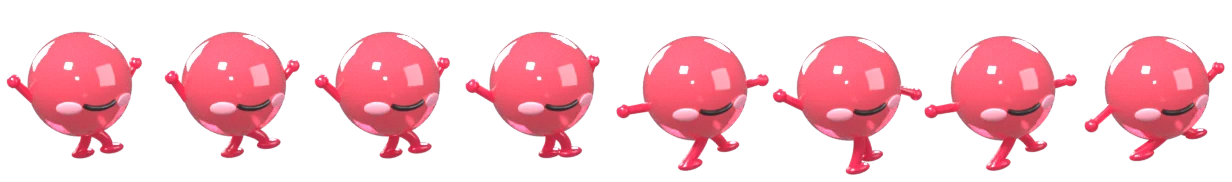
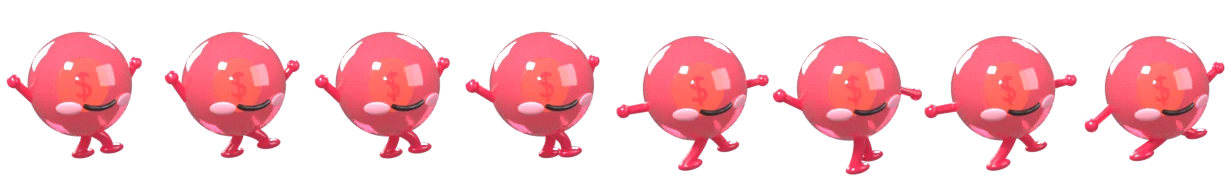
Glass family: glass runner with a gold $ coin heart, glass ticks and power-ups, money-plant dividend
- Runner (all 5 skins, run/love/tricks/skate/cash/dance) re-rendered as glass: amber honey glass with gold limbs for gold, tinted glass for long/short; a glowing gold $ coin floats inside (coin_heart), rocks with the stride, squashes in the goo
- Ticks: clear tinted glass candles with a glowing core
- Power-ups: glass STOP-LOSS shield, sapphire INDEX FUND magnet, new DIVIDEND money plant (glass pot, gold coin leaves) in pu-x2
- PUGLOW colours match the new materials; power-up sheets preload after start (no placeholder disc)
- GLASS_STYLE switch (default on) in objects.py; docs updated

Claude-Session: https://claude.ai/code/session_019fbWZCuFJHkf5tasQWWvE6

diff --git a/index.html b/index.html
@@ -1829,8 +1829,8 @@ let lastScoreTxt='';function paintScore(n,col){col=col||'#ebbd4e';const t=fmt(n)
 /* game sprites (assets/game): 3D renders in the site palette. Runner sheet = 8 run frames + 1 jump frame. */
 /* sprite sheets load on demand (P1): GIMG makes the image, ld() starts the download the first time it is needed; ok() is false until it has arrived, and the drawing code falls back to the gold runner */
 var DOLLA=new Image();DOLLA.onload=()=>{lastScoreTxt='';if(R)paintScore(R.score)};DOLLA.src='assets/game/dolla.webp';
-const GIMG=n=>{const i=new Image();i._n=n;return i},ld=i=>{if(i&&!i._ld&&!i.src){i._ld=1;i.onload=()=>bmMake(i);i.src='assets/game/'+i._n+'.webp'}return i},/* decode right after download, off the main thread */RUNNER=GIMG('runner'),RUNI={gold:RUNNER,lg:GIMG('runner-lgreen'),gg:GIMG('runner-ggreen'),lr:GIMG('runner-lred'),gr:GIMG('runner-gred')},SKATEI={gg:GIMG('runner-skate-ggreen'),gr:GIMG('runner-skate-gred')},HATI={top:GIMG('hat-top'),crown:GIMG('hat-crown'),prop:GIMG('hat-prop')},BULL=GIMG('cp-bull'),BEARCP=GIMG('cp-bear'),BILL=GIMG('bill'),CASH=GIMG('runner-cash'),PROP_X0={cash:26},LOVEI={gold:GIMG('runner-love'),lg:GIMG('runner-love-lgreen'),gg:GIMG('runner-love-ggreen'),lr:GIMG('runner-love-lred'),gr:GIMG('runner-love-gred')},HEART=GIMG('heart'),TRICK_OFF=[-88,-177],TRICKI={gold:GIMG('runner-trick'),lg:GIMG('runner-trick-lgreen'),gg:GIMG('runner-trick-ggreen'),lr:GIMG('runner-trick-lred'),gr:GIMG('runner-trick-gred')},LOVE_EYES=[[85.8,95.0,115.2,90.6],[85.8,95.0,115.2,90.6],[85.8,95.0,115.2,90.6],[85.8,95.0,115.2,90.6],[85.4,100.6,114.6,93.9],[85.4,100.6,114.6,93.9],[85.4,100.6,114.6,93.9],[85.4,100.6,114.6,93.9]]/* eye centres per love frame, sheet px (exported by objects.py) */,TICKI=TK.map(t=>GIMG(t.im)),RUGI=GIMG('rug'),RUGROLLI=GIMG('rug-roll'),WALLETI=GIMG('devwallet'),SIGNI=GIMG('sign-100x'),PUI={shield:GIMG('pu-shield'),magnet:GIMG('pu-magnet'),x2:GIMG('pu-x2')},PUGLOW={shield:'198,202,209',magnet:'188,127,58',x2:'235,189,78'};
-const ldSkin=sk=>{ld(RUNI[sk]);ld(LOVEI[sk]);ld(TRICKI[sk])},ldStart=()=>{/* what the game opens with: the gold and light-green runner (the start skin), its trick and love sheets, the bull, ticks, hats */[RUNNER,BULL,BILL,HEART,HATI.top,HATI.crown,HATI.prop,...TICKI.slice(0,5)].forEach(ld);ldSkin('lg')};
+const GIMG=n=>{const i=new Image();i._n=n;return i},ld=i=>{if(i&&!i._ld&&!i.src){i._ld=1;i.onload=()=>bmMake(i);i.src='assets/game/'+i._n+'.webp'}return i},/* decode right after download, off the main thread */RUNNER=GIMG('runner'),RUNI={gold:RUNNER,lg:GIMG('runner-lgreen'),gg:GIMG('runner-ggreen'),lr:GIMG('runner-lred'),gr:GIMG('runner-gred')},SKATEI={gg:GIMG('runner-skate-ggreen'),gr:GIMG('runner-skate-gred')},HATI={top:GIMG('hat-top'),crown:GIMG('hat-crown'),prop:GIMG('hat-prop')},BULL=GIMG('cp-bull'),BEARCP=GIMG('cp-bear'),BILL=GIMG('bill'),CASH=GIMG('runner-cash'),PROP_X0={cash:26},LOVEI={gold:GIMG('runner-love'),lg:GIMG('runner-love-lgreen'),gg:GIMG('runner-love-ggreen'),lr:GIMG('runner-love-lred'),gr:GIMG('runner-love-gred')},HEART=GIMG('heart'),TRICK_OFF=[-88,-177],TRICKI={gold:GIMG('runner-trick'),lg:GIMG('runner-trick-lgreen'),gg:GIMG('runner-trick-ggreen'),lr:GIMG('runner-trick-lred'),gr:GIMG('runner-trick-gred')},LOVE_EYES=[[85.8,95.0,115.2,90.6],[85.8,95.0,115.2,90.6],[85.8,95.0,115.2,90.6],[85.8,95.0,115.2,90.6],[85.4,100.6,114.6,93.9],[85.4,100.6,114.6,93.9],[85.4,100.6,114.6,93.9],[85.4,100.6,114.6,93.9]]/* eye centres per love frame, sheet px (exported by objects.py) */,TICKI=TK.map(t=>GIMG(t.im)),RUGI=GIMG('rug'),RUGROLLI=GIMG('rug-roll'),WALLETI=GIMG('devwallet'),SIGNI=GIMG('sign-100x'),PUI={shield:GIMG('pu-shield'),magnet:GIMG('pu-magnet'),x2:GIMG('pu-x2')},PUGLOW={shield:'170,205,255',magnet:'70,150,255',x2:'120,215,110'};
+const ldSkin=sk=>{ld(RUNI[sk]);ld(LOVEI[sk]);ld(TRICKI[sk])},ldStart=()=>{/* what the game opens with: the gold and light-green runner (the start skin), its trick and love sheets, the bull, ticks, hats */[RUNNER,BULL,BILL,HEART,HATI.top,HATI.crown,HATI.prop,...TICKI.slice(0,5)].forEach(ld);ldSkin('lg');setTimeout(()=>Object.values(PUI).forEach(ld),1500)};/* power-up sheets just after start, so the first one never shows the placeholder disc */
 const GLOWC={};function glowSprite(rgb){let c=GLOWC[rgb];if(!c){c=document.createElement('canvas');c.width=c.height=128;const q=c.getContext('2d'),gr=q.createRadialGradient(64,64,0,64,64,64);gr.addColorStop(0,'rgba('+rgb+',1)');gr.addColorStop(1,'rgba('+rgb+',0)');q.fillStyle=gr;q.fillRect(0,0,128,128);GLOWC[rgb]=c}return c}
 function glow(x,y,r,rgb,a){if(!(r>0)||!(a>0))return;const g=cx,o=g.globalCompositeOperation,ga=g.globalAlpha;const lt=PALC&&!PALC.dk;g.globalCompositeOperation=lt?'source-over':'lighter';g.globalAlpha=Math.min(1,lt?a*.55:a);g.drawImage(glowSprite(rgb),x-r,y-r,2*r,2*r);g.globalAlpha=ga;g.globalCompositeOperation=o}/* cached tinted falloff, no per-call gradient */
 const powered=s=>s.shield||s.magT>0||s.x2T>0;

diff --git a/scripts/icons/objects.py b/scripts/icons/objects.py
@@ -306,6 +306,13 @@ def rainbow_glass(name):
     b.inputs['Roughness'].default_value = 0.08; b.inputs['Coat Weight'].default_value = 1.0; b.inputs['Coat Roughness'].default_value = 0.02
     return m
 
+GLASS = os.environ.get('GLASS_STYLE', '1') == '1'   # glass family: see-through bodies with a glowing core
+
+def glass_on():
+    bpy.context.scene.render.film_transparent = True
+    try: bpy.context.scene.cycles.film_transparent_glass = True
+    except Exception: pass
+
 POS_SK = {'lgreen': ((0.22, 0.82, 0.36), (0.1, 0.48, 0.2), False), 'ggreen': ((0.05, 0.95, 0.3), (0.02, 0.6, 0.18), True),
           'lred': ((1.0, 0.3, 0.32), (0.62, 0.14, 0.16), False), 'gred': ((1.0, 0.06, 0.12), (0.7, 0.02, 0.08), True)}
 
@@ -321,11 +328,28 @@ def runner_mats():
             body = glass_grad('pglass', tuple(x * 0.55 for x in c), c, trans=0.7, emit=0.5, axis='Z', k=0.75)
             limb = principled('plimb', cl, 0.15, emit=cl, emit_str=0.45, coat=1.0, coat_rough=0.02)
             limb.node_tree.nodes['Principled BSDF'].inputs['Transmission Weight'].default_value = 0.4
+        elif GLASS:
+            glass_on(); body = glass_grad('lglass', tuple(0.7 * x for x in c), c, trans=0.3, emit=0.35, axis='Z', k=0.75)
+            limb = principled('pleg', cl, 0.15, coat=1.0, coat_rough=0.02)
         else:
             body = principled('pbody', c, 0.22, coat=1.0, coat_rough=0.05); limb = principled('pleg', cl, 0.3, coat=0.6)
+    elif GLASS:  # honey glass: amber body, polished gold limbs
+        glass_on(); body = glass_grad('amber', (0.62, 0.3, 0.03), (1.0, 0.72, 0.22), trans=0.72, emit=0.32, axis='Z', k=0.75)
+        limb = gold()
     else:
         body = plastic('rbody', P['gold']); limb = plastic('rleg', P['bronze'])
     return body, limb
+
+def coin_heart(x, z, rock=0.0, sz=1.0):
+    """the runner's signature: a glowing gold $ coin floating inside the glass body. rock = small turn (rad) so it never goes edge-on; sz squashes it vertically (goo)"""
+    if not GLASS: return []
+    m = principled('heart', (1.0, 0.72, 0.18), 0.2, metallic=0.6, coat=1.0, coat_rough=0.03, emit=(1.0, 0.62, 0.12), emit_str=1.6)
+    hub = link(bpy.data.objects.new('coinhub', None)); hub.location = (x, -0.05, z)
+    c = cyl(m, (0, 0, 0), 0.3, 0.08, (math.radians(90), 0, 0), 48, 0.02)
+    bpy.ops.object.text_add(location=(0, -0.045, -0.01), rotation=(math.radians(90), 0, 0)); d = bpy.context.active_object
+    d.data.body = '$'; d.data.size = 0.42; d.data.extrude = 0.012; d.data.align_x = 'CENTER'; d.data.align_y = 'CENTER'; d.data.materials.append(gold())
+    for o in (c, d): o.parent = hub
+    hub.rotation_euler = (0, 0, rock); hub.scale = (1, 1, sz); return [hub]
 
 def briefcase(hand, swing=0.0):
     """a small leather briefcase hanging from `hand` (handle up), swinging by `swing` rad about the hand"""
@@ -349,7 +373,7 @@ def o_runner(gait, frame):
     else:
         bob, lean, legs, L, bend, arms = _air(gait, frame)
     b = uv_sphere('rb', 0.8, (0, 0, 0.25 + bob), seg=64, rings=32); b.data.materials.append(body)
-    parts = [b]
+    parts = [b] + coin_heart(0, 0.25 + bob, 0.35 * math.sin(2 * math.pi * frame / 8))
     for k, side in enumerate((-1, 1)):
         a = math.radians(legs[k]); hip = Vector((0.05 * side, side * 0.22, -0.4 + bob))
         knee = hip + Vector((math.sin(a) * L * 0.5 + bend, 0, -math.cos(a) * L * 0.5))
@@ -451,7 +475,7 @@ def o_trick(kind, i, n=TRICK_N):
             x, y, z = v.co; r = math.hypot(x, y) / 0.8; th = math.atan2(y, x)
             v.co = Vector((x * wide, y * wide, z * tall + rip * r * r * math.sin(5 * th + ph) + 0.03 * flat * (z < 0) * r))
         b.location = (0, 0, ctr)
-    parts = [b]
+    parts = [b] + coin_heart(0, b.location.z, 0, tall if kind == 'goo' else 1.0)
     for hip, kn, ft, fs in legs:
         parts.append(tube('leg', [tuple(hip), tuple(kn), tuple(ft)], [0.09, 0.085, 0.08], limb))
         d = (ft - kn).normalized(); w_ = min(1.0, (fs - Vector((1.5, 0.9, 0.6))).length / 0.5); f = uv_sphere('foot', 0.13, tuple(ft + Vector((0.07, 0, -0.02)).lerp(d * 0.07, w_)), tuple(fs), 32, 16); f.data.materials.append(limb); parts.append(f)  # at rest: the same foot as o_runner
@@ -474,13 +498,13 @@ def o_trick(kind, i, n=TRICK_N):
 def o_dance(frame, n=12):
     """game-over dance, a seamless loop: facing the camera, feet planted, the body sways side to side and dips
     into a crouch at each side while the arms pump up and down in turn"""
-    P = smiley.PAL; body = plastic('rbody', P['gold']); limb = plastic('rleg', P['bronze'])
+    body, limb = runner_mats()
     ph = 2 * math.pi * frame / n; sw = math.sin(ph)
     bob = -0.05 + 0.05 * math.cos(2 * ph)          # 0 in the middle, lowest (crouched) at each side
     up = link(bpy.data.objects.new('upper', None)); up.location = (0.17 * sw, 0, bob)
     b = uv_sphere('rb', 0.8, (0.17 * sw, 0, 0.25 + bob), seg=64, rings=32); b.data.materials.append(body)
     fc = face([b], 0.17 * sw, 0.3 + bob, 0.95)
-    parts = [b]
+    parts = [b] + coin_heart(0.17 * sw, 0.25 + bob, 0.3 * sw)
     for side in (-1, 1):  # arms: one rises while the other falls
         bA = math.radians(35 + 120 * (0.5 + 0.5 * sw * side)); sh = Vector((side * 0.74 + 0.17 * sw, 0.05, 0.12 + bob))
         hand = sh + Vector((side * math.sin(bA) * 0.42, -0.06, -math.cos(bA) * 0.42))
@@ -583,12 +607,14 @@ def o_pu_shield():
         o = link(bpy.data.objects.new('sh', me)); o.location = (0, y, 0); o.data.materials.append(mat)
         so = o.modifiers.new('so', 'SOLIDIFY'); so.thickness = th; so.offset = 0; return bevel(o, 0.05, 4)
     rim = slab(1.0, 0.28, gold(), 0)
-    face_ = slab(0.84, 0.3, principled('plat', (0.86, 0.87, 0.9), 0.25, metallic=0.9, coat=0.6), -0.04)
+    if GLASS: glass_on()
+    face_ = slab(0.84, 0.3, glass_grad('shg', (0.55, 0.75, 1.0), (0.92, 0.97, 1.0), trans=0.85, emit=0.2) if GLASS else principled('plat', (0.86, 0.87, 0.9), 0.25, metallic=0.9, coat=0.6), -0.04)
     return [rim, face_], face([face_], 0, 0.05, 0.85)
 
 def o_pu_magnet():
     """power-up: a chunky horseshoe magnet, bronze with platinum poles, with a face on the bend"""
-    mb = principled('mag', smiley.PAL['bronze'], 0.3, coat=0.9, coat_rough=0.04); tip = principled('pole', (0.86, 0.87, 0.9), 0.22, metallic=1.0)
+    if GLASS: glass_on()
+    mb = glass_grad('mag', (0.05, 0.25, 0.85), (0.35, 0.7, 1.0), trans=0.75, emit=0.3, axis='Z', k=0.9) if GLASS else principled('mag', smiley.PAL['bronze'], 0.3, coat=0.9, coat_rough=0.04); tip = principled('pole', (0.86, 0.87, 0.9), 0.22, metallic=1.0)
     arc = [(0.48 * math.cos(math.radians(a)), 0, 0.15 + 0.48 * math.sin(math.radians(a))) for a in range(0, 181, 10)]
     pts = [(0.48, 0, -0.45)] + arc + [(-0.48, 0, -0.45)]
     body = tube('magnet', pts, [0.22] * len(pts), mb)
@@ -601,6 +627,20 @@ def o_pu_x2():
     t.data.body = '2x'; t.data.size = 1.35; t.data.extrude = 0.16; t.data.bevel_depth = 0.05; t.data.bevel_resolution = 4
     t.data.align_x = 'CENTER'; t.data.align_y = 'CENTER'; t.data.materials.append(gold())
     return [t], []
+
+def o_dividend():
+    """DIVIDEND power-up: a little money plant (your money grows) — a glass pot, a green glass stem, gold coin leaves, a face on the pot"""
+    glass_on()
+    pot_m = glass_grad('pot', (0.55, 0.75, 1.0), (0.92, 0.97, 1.0), trans=0.85, emit=0.2)
+    stem_m = principled('stem', (0.1, 0.75, 0.3), 0.15, coat=1.0, emit=(0.1, 0.8, 0.3), emit_str=0.4)
+    bpy.ops.mesh.primitive_cone_add(vertices=48, radius1=0.42, radius2=0.58, depth=0.7, location=(0, 0, -0.55)); pot = bpy.context.active_object
+    pot.data.materials.append(pot_m); pot = bevel(pot, 0.04, 3); smooth(pot)
+    soil = cyl(gold(), (0, 0, -0.22), 0.52, 0.06, bv=0.02)
+    stem = tube('stem', [(0, 0, -0.2), (0.05, 0, 0.25), (-0.04, 0, 0.6), (0, 0, 0.85)], [0.06, 0.055, 0.05, 0.045], stem_m)
+    parts = [pot, soil, stem]
+    for (x, z, ry) in ((0.36, 0.38, 35), (-0.36, 0.62, -35), (0.0, 1.05, 0)):  # coin leaves, tilted toward the camera
+        parts.append(cyl(gold(), (x, -0.05, z), 0.24, 0.06, (math.radians(80), math.radians(ry), 0), 48, 0.02))
+    return parts, face([pot], 0, -0.55, 0.5)
 
 def o_bull(i, n=96):
     """checkpoint: a faceted, see-through diamond bull, turning slowly (frame i of n, one full turn)"""
@@ -649,12 +689,19 @@ def o_bill():
 def o_tick(tier=1, red=False):
     """currency: a glossy candle. green = +1/+3/+10% (tier 1-3, bigger and brighter), red = -2/-5% (tier 1-2, a down-candle)"""
     c = (0.9, 0.08, 0.12) if red else (0.05, 0.8, 0.3)
-    m = principled('tick', c, 0.12, coat=1.0, coat_rough=0.02, emit=c, emit_str=0.25 + 0.2 * tier)
-    m.node_tree.nodes['Principled BSDF'].inputs['Transmission Weight'].default_value = 0.35
     k = [0, 0.8, 1.0, 1.2][tier]
-    body = box('body', m, (0, 0, 0), (0.62 * k, 0.62 * k, 1.15 * k), bv=0.12 * k)
-    wick = tube('wick', [(0, 0, -1.0 * k), (0, 0, 1.0 * k)], [0.06 * k, 0.06 * k], m)
-    parts = [body, wick]
+    if GLASS:  # clear tinted glass shell, a bright core bar inside
+        glass_on(); m = glass_grad('tick', tuple(0.45 * x for x in c), tuple(min(1, 0.35 + x) for x in c), trans=0.8, emit=0.25, axis='Z', k=0.6)
+        core = principled('core', c, 0.2, emit=c, emit_str=1.2 + 0.5 * tier)
+        body = box('body', m, (0, 0, 0), (0.62 * k, 0.62 * k, 1.15 * k), bv=0.14 * k)
+        wick = tube('wick', [(0, 0, -1.0 * k), (0, 0, 1.0 * k)], [0.05 * k, 0.05 * k], core)
+        parts = [body, wick, box('corebar', core, (0, 0, 0), (0.26 * k, 0.26 * k, 0.8 * k), bv=0.08 * k)]
+    else:
+        m = principled('tick', c, 0.12, coat=1.0, coat_rough=0.02, emit=c, emit_str=0.25 + 0.2 * tier)
+        m.node_tree.nodes['Principled BSDF'].inputs['Transmission Weight'].default_value = 0.35
+        body = box('body', m, (0, 0, 0), (0.62 * k, 0.62 * k, 1.15 * k), bv=0.12 * k)
+        wick = tube('wick', [(0, 0, -1.0 * k), (0, 0, 1.0 * k)], [0.06 * k, 0.06 * k], m)
+        parts = [body, wick]
     if tier == 3 and not red:  # the big one: a gold band and a sparkle
         parts.append(box('band', gold(), (0, 0, 0.3 * k), (0.66 * k, 0.66 * k, 0.12 * k), bv=0.03))
         star = prim('ico_sphere', principled('spark', (1, 1, 0.9), 0.1, emit=(1, 0.95, 0.7), emit_str=3.0), (0.32 * k, -0.3, 1.0 * k), subdivisions=1, radius=0.12)
@@ -787,7 +834,7 @@ def o_skate(kind, i):
         lift = 0.3 * env; crouch = 0.5 - 0.5 * hold; legs_together = hold; grab = (1, hold)
     bob = 0.55 - 0.16 * crouch + lift
     # body (ball, face, arms) in its own hub, pitched a third as much as the board so it stays balanced over it
-    b = uv_sphere('rb', 0.8, (0, 0, bob), seg=64, rings=32); b.data.materials.append(body); bparts = [b]
+    b = uv_sphere('rb', 0.8, (0, 0, bob), seg=64, rings=32); b.data.materials.append(body); bparts = [b] + coin_heart(0, bob, 0.2)
     for k_, side in enumerate((-1, 1)):
         sh = Vector((side * 0.74, 0.05, bob - 0.13)); tgt = sh + arms[k_] * 0.5
         if kind == 'jesus': tgt = sh.lerp(Vector((side * 1.55, -0.05, bob - 0.08)), hold) if True else tgt   # arms straight out, cross
@@ -858,7 +905,7 @@ def o_hat(kind):
             ps.append(box('blade', [f2, stem][k], (0, 0, 0.6), (0.9, 0.16, 0.025), (math.radians(10), 0, math.radians(30 + 90 * k)), bv=0.01))
     return ps + [a], []
 
-OBJECTS = {'coin': (o_coin, -1), **{'trick-%s-%d' % (k, i): ((lambda k=k, i=i: o_trick(k, i)), 0) for k in ('cork', 'spin', 'split', 'goo') for i in range(TRICK_N)}, 'heart': (o_heart, 1), **{'bull-%d' % i: ((lambda i=i: o_bull(i)), 0) for i in range(96)}, **{'bearcp-%d' % i: ((lambda i=i: o_bear(i)), 0) for i in range(96)}, 'dolla': (o_dolla, 0), **{'skate-ride_%d-%d' % (p_, i): ((lambda p_=p_, i=i: o_skate('ride_%d' % p_, i)), 0) for p_ in SKATE_PITCH for i in range(SKATE_RIDE_N)}, **{'skate-%s-%d' % (k, i): ((lambda k=k, i=i: o_skate(k, i)), 0) for k, n_ in SKATE_SEQ.items() for i in range(n_)}, 'hat-top': (lambda: o_hat('top'), 0), 'hat-crown': (lambda: o_hat('crown'), 0), 'hat-prop': (lambda: o_hat('prop'), 0), 'bill': (o_bill, 0), **{'tick-%d' % t: ((lambda t=t: o_tick(t)), 0) for t in (1, 2, 3)}, **{'tick-r%d' % t: ((lambda t=t: o_tick(t, True)), 0) for t in (1, 2)}, 'rug': (o_rug, 0), 'rug-roll': (lambda: o_rug(True), 0), 'rocket': (o_rocket, 0), 'devwallet': (o_devwallet, 0), 'sign-100x': (o_sign100x, 0), 'bear': (o_bear, 0),  **{'dance-%d' % i: ((lambda i=i: o_dance(i)), 0) for i in range(12)}, 'pu2-shield': (o_pu_shield, 1), 'pu2-magnet': (o_pu_magnet, 1), 'pu2-x2': (o_pu_x2, 1), 'star': (o_star, 1), 'star-off': (lambda: o_star(True), 1), 'warn': (o_warn, -1), 'hook': (o_hook, 1), 'moon': (o_moon, -1), 'coin-silver': (lambda: o_coin('silver'), -1), 'coin-bronze': (lambda: o_coin('bronze'), -1),
+OBJECTS = {'coin': (o_coin, -1), **{'trick-%s-%d' % (k, i): ((lambda k=k, i=i: o_trick(k, i)), 0) for k in ('cork', 'spin', 'split', 'goo') for i in range(TRICK_N)}, 'heart': (o_heart, 1), **{'bull-%d' % i: ((lambda i=i: o_bull(i)), 0) for i in range(96)}, **{'bearcp-%d' % i: ((lambda i=i: o_bear(i)), 0) for i in range(96)}, 'dolla': (o_dolla, 0), **{'skate-ride_%d-%d' % (p_, i): ((lambda p_=p_, i=i: o_skate('ride_%d' % p_, i)), 0) for p_ in SKATE_PITCH for i in range(SKATE_RIDE_N)}, **{'skate-%s-%d' % (k, i): ((lambda k=k, i=i: o_skate(k, i)), 0) for k, n_ in SKATE_SEQ.items() for i in range(n_)}, 'hat-top': (lambda: o_hat('top'), 0), 'hat-crown': (lambda: o_hat('crown'), 0), 'hat-prop': (lambda: o_hat('prop'), 0), 'bill': (o_bill, 0), **{'tick-%d' % t: ((lambda t=t: o_tick(t)), 0) for t in (1, 2, 3)}, **{'tick-r%d' % t: ((lambda t=t: o_tick(t, True)), 0) for t in (1, 2)}, 'rug': (o_rug, 0), 'rug-roll': (lambda: o_rug(True), 0), 'rocket': (o_rocket, 0), 'devwallet': (o_devwallet, 0), 'sign-100x': (o_sign100x, 0), 'bear': (o_bear, 0),  **{'dance-%d' % i: ((lambda i=i: o_dance(i)), 0) for i in range(12)}, 'pu2-shield': (o_pu_shield, 1), 'pu2-magnet': (o_pu_magnet, 1), 'pu2-x2': (o_pu_x2, 1), 'pu2-dividend': (o_dividend, 1), 'star': (o_star, 1), 'star-off': (lambda: o_star(True), 1), 'warn': (o_warn, -1), 'hook': (o_hook, 1), 'moon': (o_moon, -1), 'coin-silver': (lambda: o_coin('silver'), -1), 'coin-bronze': (lambda: o_coin('bronze'), -1),
            **{'runner-%s-%d' % (g, i): ((lambda g=g, i=i: o_runner(g, i)), 0) for g, n in [*[(g, 8) for g in GAITS], *AIR.items()] for i in range(n)}, 'crypto': (o_crypto, 1), 'notes': (o_notes, -1), 'moneybag': (o_moneybag, 1), 'receipt': (o_receipt, -1),
            'tag': (o_tag, 1), 'bank': (o_bank, -1), 'tower': (o_tower, 1), 'factory': (o_factory, -1), 'crane': (o_crane, 1),
            'house': (o_house, -1), 'castle': (o_castle, 1), 'dome': (o_dome, -1), 'map': (o_map, 1), 'pin': (o_pin, -1), 'compass': (o_compass, 1)}

diff --git a/CLAUDE.md b/CLAUDE.md
@@ -43,6 +43,7 @@ python3 -m http.server 8765 &
 | `RUNNER_SKIN` | `gold` (default; cash/all in), `lgreen`/`ggreen` (long 1x/2x), `lred`/`gred` (short 1x/2x). Power-ups are canvas auras, not skins. |
 | `RUNNER_PROP` | `case` (cash run). ALL IN is `o_skate` (skateboard), its own generator. |
 | `RUNNER_FACE` | `love`, `love-noeyes` |
+| `GLASS_STYLE` | `1` (default): the glass family. Every skin is a glass ball (gold = amber "honey glass" with gold limbs) with a glowing gold $ coin floating inside (`coin_heart`, the runner's signature; it rocks with the stride and squashes in the goo). Ticks are clear glass candles with a glowing core; power-ups are glass. `0` = the old opaque plastic. |
 
 - **Runner frame list (35):** walk 8, jog 8, run 8, tko 3, rise 4, fall 4 → `runner-{gait}-{i}`.
 - **Other sheets:** tricks 24 frames each, skate 168, bull/bear 96 (see `docs/ANIMATION.md`, "Frame rate and frame counts"). Sheets decode off the main thread (`bmMake`); canvas colours come from the theme palette `pal()`.
@@ -50,7 +51,7 @@ python3 -m http.server 8765 &
   - Crop box `(x0, 27, x1, 209)`, frames side by side, cell height 182.
   - The game draws at height 217, so the pixel scale is `217/182`.
   - The body centre sits at render x = 118, so a sheet with a different `x0` needs its offset in code (see `PROP_X0`).
-- **Render cost:** 256 px, 32–48 samples. About 1–2 min per 35-frame skin on 2 cores; glass skins are slower.
+- **Render cost:** 256 px, 32–48 samples (glass needs ≥36 or it looks grainy). About 3 min per 35-frame glass skin on 2 cores; the whole runner set (5 skins × run, love, tricks, plus cash, dance, 2 skate skins) is ~1,100 frames, about 1.5–2 h.
 - **Skin → file suffix:** gold → none, lgreen → `-lgreen`, ggreen → `-ggreen`, lred → `-lred`, gred → `-gred`.
 - **Hats / head anchors:** every render with a ball named `rb` writes `head.json` (the top pole and a point above it, in render px). The packer turns these into `HEADS` in `index.html`. A new pose sheet needs its anchors added there, or hats won't sit on it.
 - Check every frame's alpha bounding box stays inside the 256 px render. Shrink the pose, never move the camera.

diff --git a/docs/MARKET.md b/docs/MARKET.md
@@ -168,7 +168,8 @@ Plus one **lesson line** chosen by what happened, for example:
 | `bill.webp` | banknote for the cash trail and dividend showers | `o_bill` |
 | `tick-1..3.webp`, `tick-r1..2.webp` | currency candles | `o_tick` |
 | `rug.webp`, `rug-roll.webp`, `rocket.webp`, `devwallet.webp`, `sign-100x.webp` | rugpull set | `o_rug`, `o_rocket`, `o_devwallet`, `o_sign100x` |
-| `heart.webp`, `dance.webp`, `pu-*.webp` | love eyes, game-over dance, power-ups | existing |
+| `heart.webp`, `dance.webp` | love eyes, game-over dance | existing |
+| `pu-shield.webp`, `pu-magnet.webp`, `pu-x2.webp` | STOP-LOSS (glass shield, gold rim), INDEX FUND (sapphire glass magnet), DIVIDEND (money plant: glass pot, gold coin leaves) | `pu2-shield`, `pu2-magnet`, `pu2-dividend` (24-frame turntable) |
 
 Render recipes are in `CLAUDE.md` (repo root).
 
